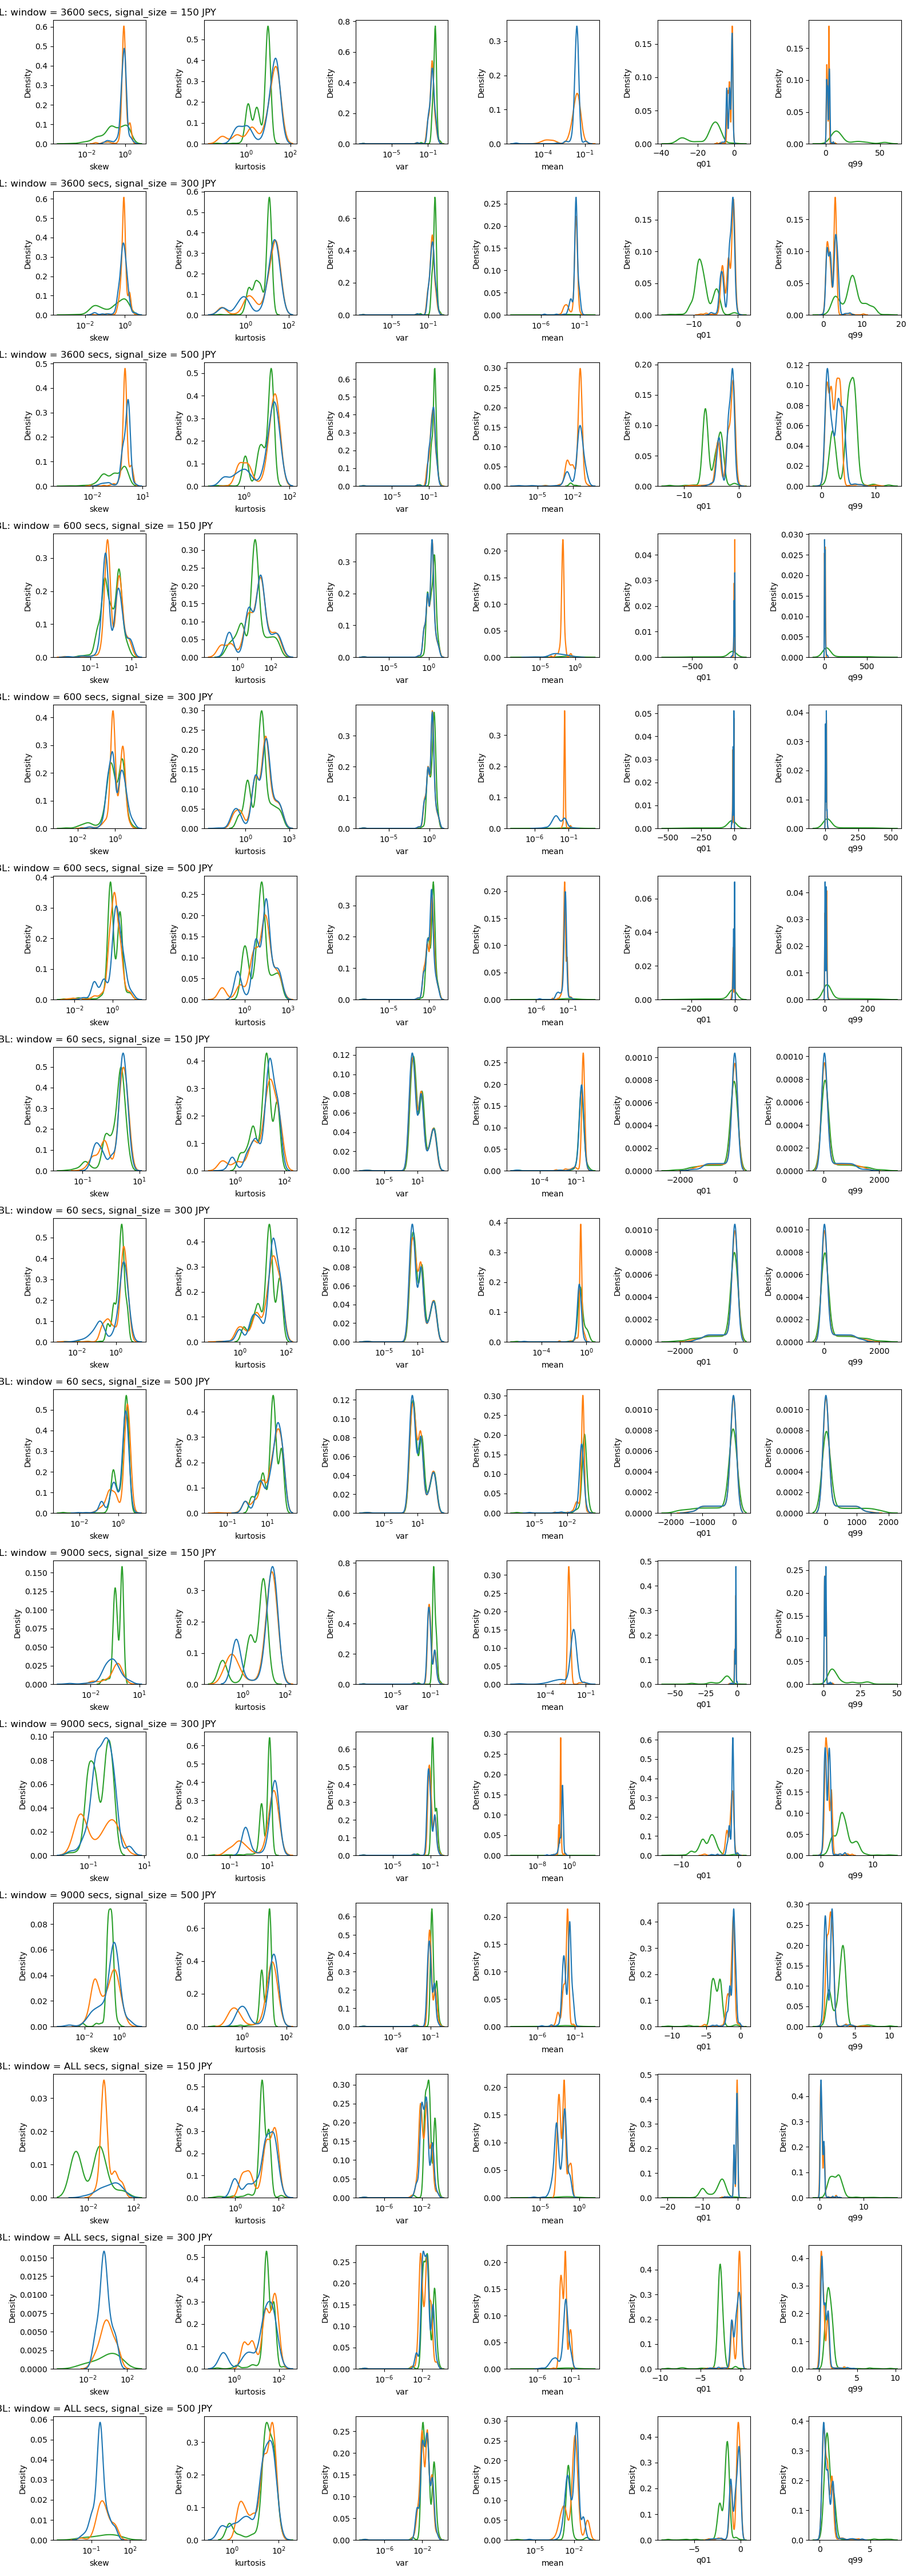
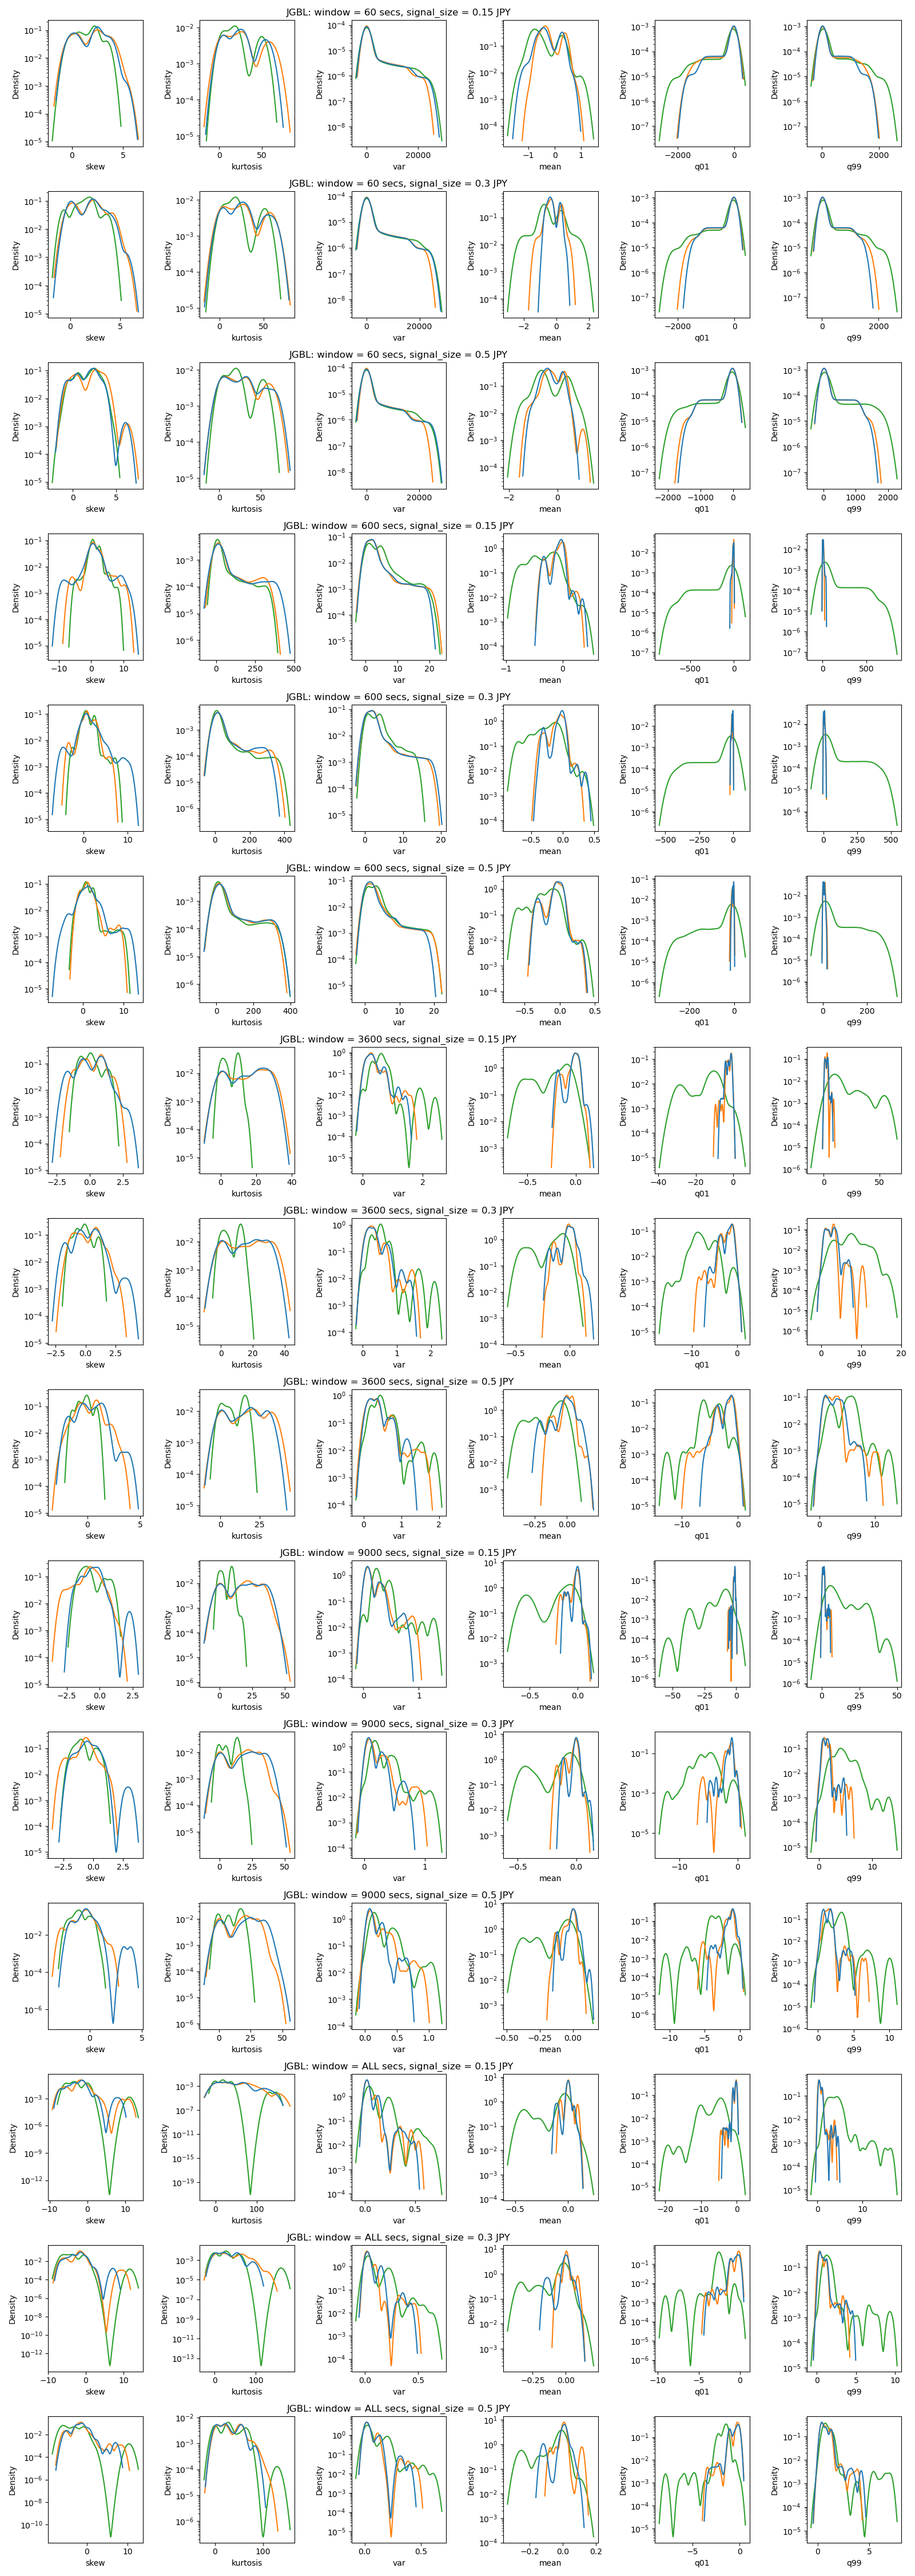
update

diff --git a/tasks/q3/main.py b/tasks/q3/main.py
@@ -20,11 +20,13 @@ def load_data():
     labeldf: dict[str, pl.DataFrame] = {}
     for i in os.listdir("/tmp/input"):
         if i.endswith(".csv"):
+            [_product, signal_size, _, _dateidx_csv] = i.split("_")
             _df = pl.read_csv("/tmp/input/"+i)
+            _df = _df.select([pl.col("base_timestamp").str.strptime(pl.Datetime("ns")).alias("timestamp"), pl.col(["signal"]).suffix(f"_{signal_size}")])
         else:
             _df = pl.read_parquet("/tmp/input/"+i)
+
         if "depth_imbalance_" in i:
-            _df = _df.with_columns(pl.col("timestamp").shift_and_fill(1, 0).alias("time_delta").cast(pl.Datetime("ns"))-pl.col("timestamp"))
             _df = _df.drop_nulls()
 
             if isinstance(df, pl.DataFrame):
@@ -35,9 +37,6 @@ def load_data():
             df.shrink_to_fit(in_place=True)
         else:
             [_product, signal_size, _, _dateidx_csv] = i.split("_")
-            _df = _df.select([pl.col("base_timestamp").str.strptime(pl.Datetime("ns")).alias("timestamp"), pl.col(["signal"]).suffix(f"_{signal_size}")])
-            
-            _df = _df.with_columns(pl.col("timestamp").shift_and_fill(1, 0).alias("time_delta").cast(pl.Datetime("ns"))-pl.col("timestamp"))
             _df = _df.drop_nulls()
 
             signal_cols.add(f"signal_{signal_size}")
@@ -49,7 +48,7 @@ def load_data():
             labeldf[signal_size].shrink_to_fit(in_place=True)
 
     keys = list(labeldf.keys())
-    _labeldf = labeldf[keys[0]].lazy().join(labeldf[keys[1]].lazy().select(pl.all().exclude("time_delta")), on="timestamp").join(labeldf[keys[2]].lazy().select(pl.all().exclude("time_delta")), on="timestamp")
+    _labeldf = labeldf[keys[0]].lazy().join(labeldf[keys[1]].lazy(), on="timestamp").join(labeldf[keys[2]].lazy(), on="timestamp")
     _labeldf = _labeldf.select([pl.col(list(signal_cols)).cast(pl.Categorical), pl.all().exclude(list(signal_cols))]).collect()
 
     assert isinstance(df, pl.DataFrame)
@@ -59,21 +58,24 @@ def load_data():
         if "spread" in i:
             col = col.alias("spread")
         elif "ask_price" in i:
-            col = col.alias("ask")
+            col = col.alias("ask_price")
         elif "bid_price" in i:
-            col = col.alias("bid")
+            col = col.alias("bid_price")
         else:
             continue
         
         cols.append(col)
         print(col)
     df2 = _labeldf.lazy().join(df.select(cols).lazy(), on="timestamp", how="outer")
+    df2 = df2.with_columns(pl.col(["ask", "bid", "spread"]).forward_fill())
+    df2 = df2.with_columns(pl.col(list(signal_cols)).forward_fill().fill_null("Timeout"))
+    df2 = df2.with_columns(pl.col("timestamp").shift_and_fill(1, 0).alias("time_delta").cast(pl.Datetime("ns"))-pl.col("timestamp"))
     print(df2)
     df2 = df2.sort("timestamp").with_columns(pl.col("time_delta").abs()).collect()
     print(df2)
     df2 = df2.drop_nulls().sort("timestamp").with_columns(pl.col("time_delta").cast(pl.Duration('ns')))
     print(df2.sort("time_delta"))
-    return df2.filter(pl.col("time_delta").abs() < pl.duration(hours=1))
+    return df2.filter(pl.col("time_delta").abs() < pl.duration(minutes=30))
 
 
 def main():

diff --git a/tasks/q3.1/main.py b/tasks/q3.1/main.py
@@ -1,0 +1,34 @@
+import os
+import polars as pl
+import seaborn as sns
+import matplotlib.pyplot as plt
+
+def show_plot(path: str, x, signals):
+    df = pl.read_parquet(path)
+    df = df.with_columns(pl.col(pl.Categorical).cast(pl.Utf8).cast(pl.Categorical))
+    min, max = pl.col(x).quantile(0.001).alias("min"), pl.col(x).quantile(0.999).alias("max")
+    def print_signal_depth_thing(df, signal, ax = None):
+        signal = f"signal_{signal}"
+        sns.kdeplot(df.select([pl.col(signal), pl.col(x)]).to_pandas(), x=x, weights=df.select(pl.col("time_delta").shift(-1))["time_delta"].to_pandas(), hue=signal, hue_order=["Buy", "Sell", "Timeout"], ax = ax, multiple="fill")
+
+    tup = plt.subplots(3, 1, sharey=True)
+    idx = 0
+    tup[1][0].set_title(f"{x}: {path}")
+    for i in tup[1][1:]:
+        i.tick_params(axis='y', which="both", left = False, right = False)
+    for i in signals:
+        print_signal_depth_thing(df, i, tup[1][idx])
+        idx+=1
+    for i in tup[1]:
+        i.legend().remove()
+    tup[0].tight_layout()
+    
+JGBL_SIGNAL_SIZE =[150, 300, 500]
+def sort_key(i: str):
+    [_, n, n2] = i.replace(".parquet", "").split("_")
+    return (int(n), int(n2))
+
+path = os.environ["PATH"]
+show_plot(path, "bid", JGBL_SIGNAL_SIZE)
+show_plot(path, "ask", JGBL_SIGNAL_SIZE)
+show_plot(path, "spread", JGBL_SIGNAL_SIZE)

diff --git a/tasks/q3/submitjob.py b/tasks/q3/submitjob.py
@@ -84,8 +84,8 @@ def main():
                 jobName.append(str(dic[i]))
             env.append({"name": i.upper(), "value": str(val)})
         
-        jobDefinition = "arn:aws:batch:us-east-2:879655802347:job-definition/fargate_best_spec:3"
-        jobQueue= "fargate"
+        jobDefinition = "arn:aws:batch:us-east-2:879655802347:job-definition/4cpu-30gb:4"
+        jobQueue= "amd4cpu-ram30gb-storage100gb"
         response = CLIENT.submit_job(
             jobName="_".join(jobName),
             jobQueue=jobQueue,
@@ -99,5 +99,6 @@ def main():
         )
         jobid = response['jobId']
         print(jobid)
+        return 
         
 main()

diff --git a/src/overview.md b/src/overview.md
@@ -3,23 +3,25 @@ This is my personal research project about analyzing the market order-by-order u
 
 ## Research Question  
   1. Is it true that high-speed orders are more likely to get canceled?  
+    
       Yes, this is true.   
       *Slower* orders is more likely to be executed, though there are some context to it.
 
   2. It is said that taker orders are driving force in the market, can they predict the market move?    
-       
-    I categorized each data point into different categories based on how the market moved on next 3600 seconds and checked the difference of each group's skew, variance, mean and kurtosis.
-    It appears that groups that recorded large market move does overlap with ones that did not.
+      
+      I measured the taker's position in several different ways, and created a statistical summary.
 
-    I plotted out a unrealized gain and expected profit at maturity.   
+      Statistical summary shows that most variables shows different statiscial property before large market move.
 
-  3. Do BBO spread reflect market quality for larger order?   
+  3. Do market liquidity provide any information on market movement?   
     
-    BBO spread is commonly used to measure market quality.  
-    Average execution price of contracts for order with bigger size fluctuates over time.  
-    
+      - Market is more likely to move bigly when market is liquid
+      - I discovered that difference between average execution price (e.g. market order to acquire 5000 qty and 100 qty) is not constant and it fluctuates over time.
+      
   4. Can you predict the market movement using publicly available machine learning model with the data generated above?  
-    I couldn't make it work.
+    I tried it by using machine learning model that worked well for financial market that I found on kaggle but I couldn't make it work.
+
+      I think it would've been better to model it as a stochastic process whose probability distribution evolves over time.
 
 ## Dataset  
   Dataset is the snapshot of ITCH protocol message distributed on March 2021 at Osaka Exchange.   

diff --git a/src/system.md b/src/system.md
@@ -1,0 +1,39 @@
+# Overview of System/Tools/Software
+
+## Current Implementation
+
+- Order Book Simulator
+Order book simluator is built from scratch with Rust.  
+It works with Osaka Exchange's ITCH procotol message.
+
+- Cloud Environment
+I used AWS, but I believe same can be done in other platform as well.
+
+Data is stored on S3 bucket. It appeared to be lot cheaper, faster, and easier to iterate than DBMS. 
+
+Processing of data makes heavy use of spot instances (EC2 and Fargate) and it is scheduled by AWS Batch.
+
+- mdbook
+This website is built with mdbook.
+
+
+## Future Direction
+### Order Book
+Current implementation requires all data to be loaded onto the RAM.
+The original dataset was not sorted by timestamp and I didn't want to mess around with the data as I was concerned that I might break it without noticing it.
+
+Things that I would do to improve:
+
+- Multi-threading
+- Loading Data By Streaming
+- Generics To Work With Different Message Format (e.g. FIX format, JSON format from crypto exchanges)
+
+Performance optimization will allow you to,
+- work with smaller instance
+- allows you to work with smaller quotas
+- work in faster iteration 
+
+### Things to automate
+- Indexing of generated data
+- CI/DC
+- Benchmarking... etc

diff --git a/src/SUMMARY.md b/src/SUMMARY.md
@@ -2,13 +2,15 @@
 
 - [Project Overview](./overview.md)
 
+- [Overview of System/Tools/Software](./system.md)
+
 - [Research Question 1: Speed and Execution Rate](./execution-rate/result.md)
 
 - [Research Question 2: Taker Orders](./taker-orders/result.md)
 
 - [Research Question 3: Depth Imbalance](./depth-imbalance/result.md)
 
-- [Research Question 4: Building a prediction model](./question2/overview.md)
+- [Research Question 4: Predicting Market Move](./question2/overview.md)
 
     - [Data Generation](./question2/data-generation/overview.md)
 

diff --git a/src/taker-orders/result.md b/src/taker-orders/result.md
@@ -1,6 +1,10 @@
 # Research Question 2: Taker Orders
 
 ## Summary
+
+- I generated data to keep track of, taker order's 
+
+## Overview of Variables
 Below plot is the visualization of generated data.
 
 ![plot](./summary.png)
